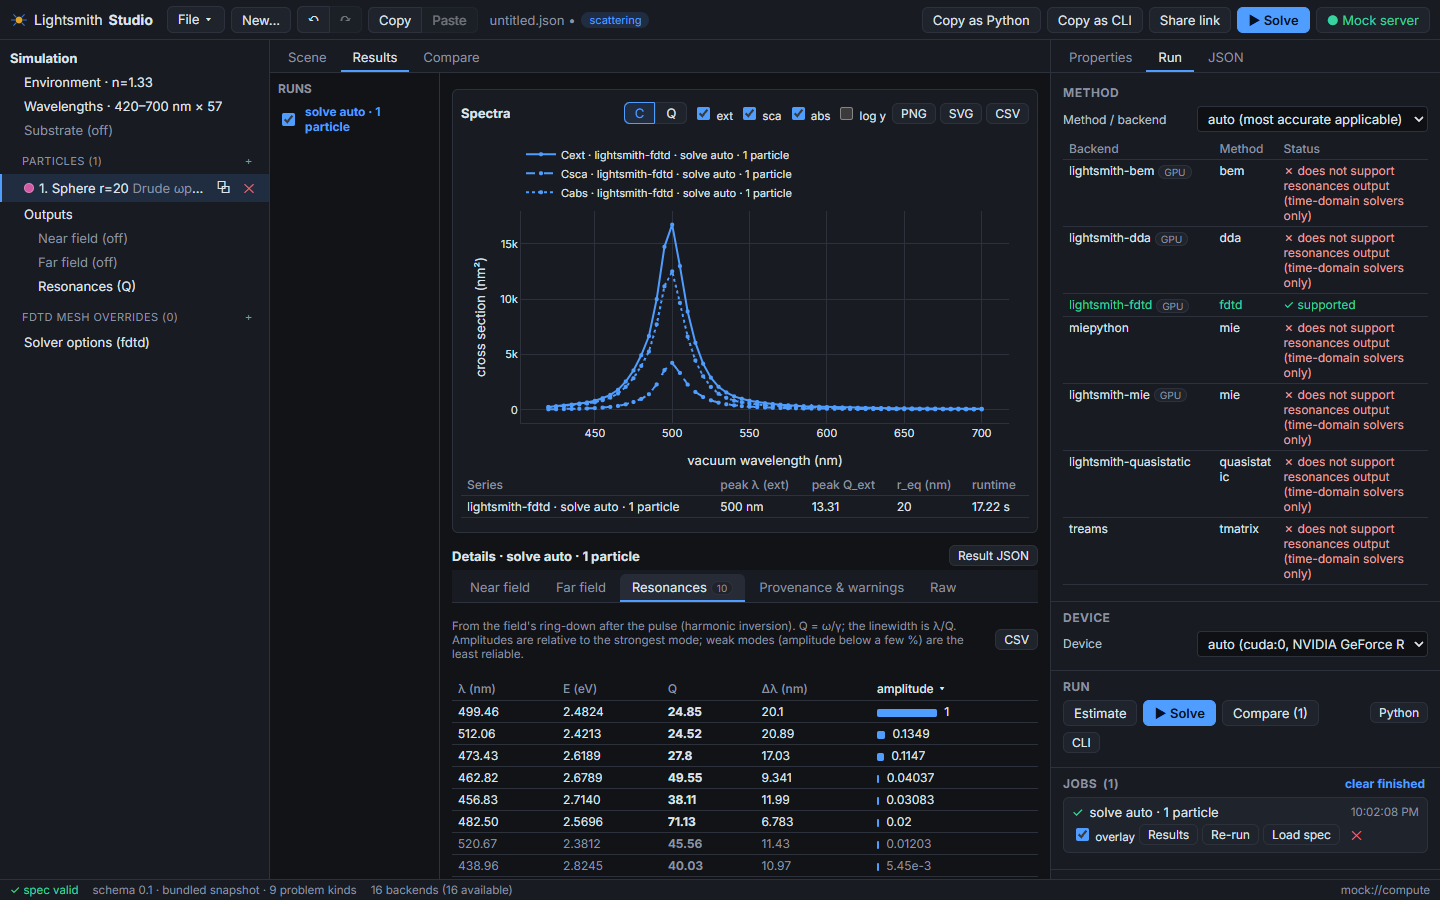
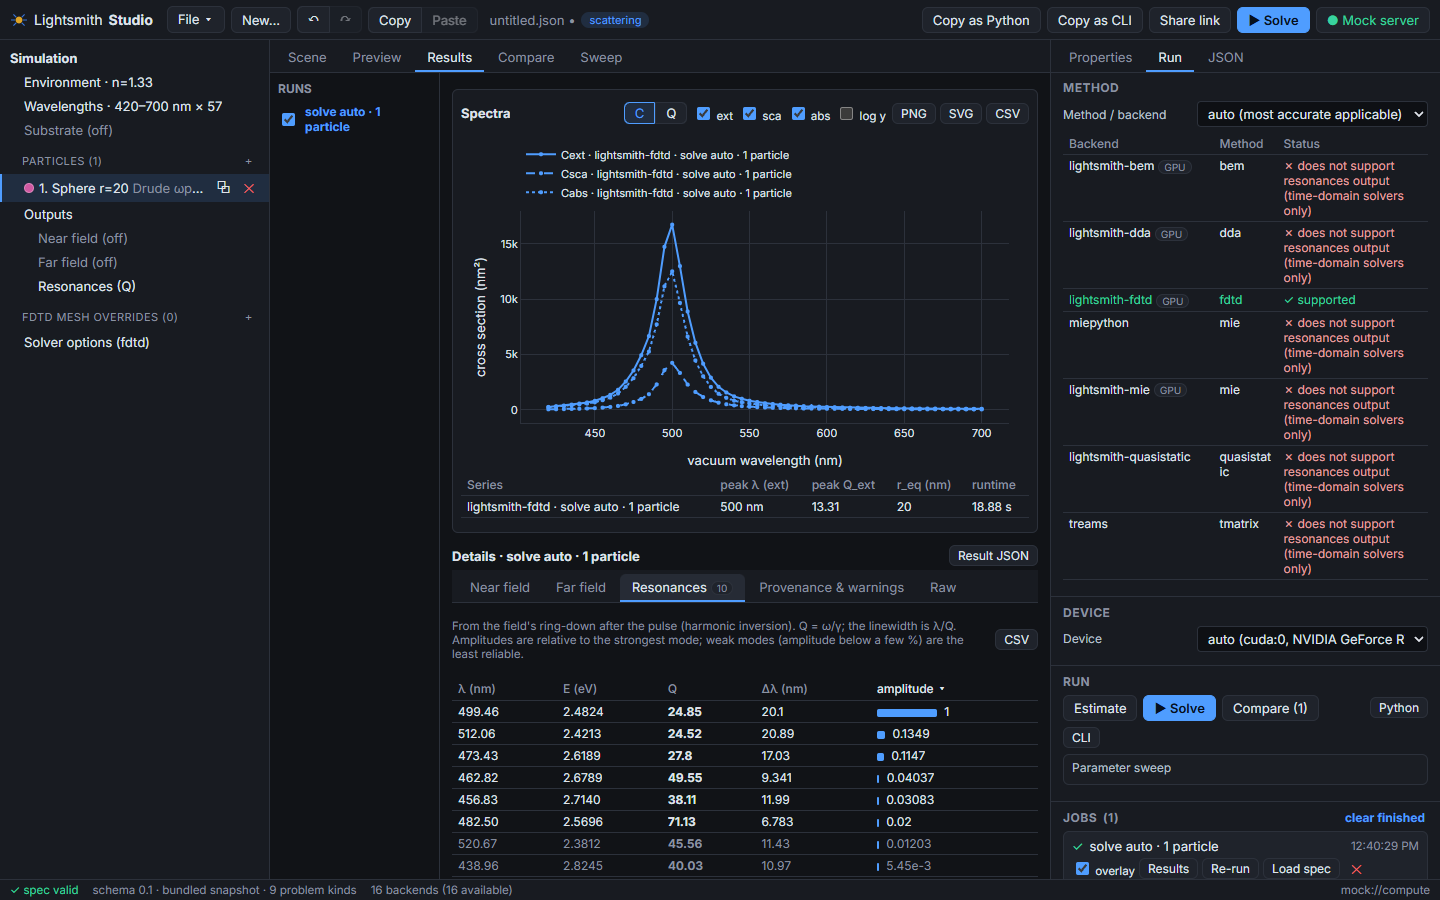
Document every solver's preview, compare and sweeps; generalise the layout proposal
README: the five center tabs, an "Every solver: preview, compare,
sweep" section with a per-backend preview table and screenshots, the
FDTD device template and solver chips, and the new tests.

API_ASSUMPTIONS.md: "Proposed: solver layouts" replaces the FDTD-only
proposal: one optional layout() per backend (ls.layout, lightsmith
layout, POST /v1/layout, MCP get_layout) with a common envelope and a
payload per layout_kind, each mapped to the library function that
computes it today; plus how Studio computes comparisons and runs
sweeps without a library call.

Screenshots from the e2e runs.

diff --git a/API_ASSUMPTIONS.md b/API_ASSUMPTIONS.md
@@ -37,8 +37,8 @@ or runtime `config.js` (Docker `STUDIO_*`).
 | `GET /v1/backends` | — | `name`, `method`, `problem_kinds`, `gpu`, `available`, `unavailable_reason`, `license` and `citation` feed the method list and the support table. `options_schema` generates the per-method options forms. While the server sends `null`, Studio uses the bundled snapshot's schema for the same backend name. | verified |
 | `POST /v1/supports` | `{simulation}` | `[{name, method, available, unavailable_reason, supported, reason}]`. On 404 or 405 (older servers) Studio falls back to one `/v1/estimate` per backend, cached per spec. | contract (fallback verified) |
 | `GET /v1/doctor` | — | Device menu and settings. | verified |
-| `POST /v1/estimate` | `{simulation, method, device}` | The whole dict, with labels for known keys. Runtime comes from `estimated_runtime_s`, else `seconds_estimate`, else a labelled heuristic. For FDTD scattering, `symmetry` (`mirrors`, `planes_nm`, `reduction`, `skipped`) and `graded_grid` are also the fallback for the 3D mirror planes when the server has no `/v1/layout`. | verified |
-| `POST /v1/layout` | `{simulation, method: "fdtd"}` | The FDTD layout for the 3D view and the mesh preview; see "Proposed: FDTD layout" below. On 404 or 405 Studio falls back to the dev server's library bridge (development only), then to `/v1/estimate`. | **proposed** |
+| `POST /v1/estimate` | `{simulation, method, device}` | The whole dict, with labels for known keys. Runtime comes from `estimated_runtime_s`, else `seconds_estimate`, else a labelled heuristic. When the server has no `/v1/layout`, the estimate's figures fill the Preview tab, and for FDTD scattering its `symmetry` (`mirrors`, `planes_nm`, `reduction`, `skipped`) gives the 3D mirror planes. | verified |
+| `POST /v1/layout` | `{simulation, method}` | What the backend will discretise (any backend), for the Preview tab, the FDTD objects in the 3D view and the mesh slice; see "Proposed: solver layouts" below. On 404 or 405 Studio falls back to the dev server's library bridge (development only), then to `/v1/estimate`. | **proposed** |
 | `POST /v1/jobs` → 202 | `{simulation, kind: "solve"\|"compare", method, methods, reference, device, label}` | `job_id` (or `id`) and `status`. A 422 at submit is shown as a toast. Optimization problems are submitted as `solve`, which the API treats like `optimize`. | verified (scattering) |
 | `GET /v1/jobs/{id}` | — | `status`, `progress`, `stage`, `message`, `error`, `result`. When `result` is null on success, Studio fetches `result_url`. | verified |
 | `DELETE /v1/jobs/{id}` | — | Cancel. Falls back to `POST …/cancel`. | contract |
@@ -60,74 +60,100 @@ servers:
 `cross_sections` results may also carry `resonances[]` (`wavelength_nm`, `energy_ev`, `q`, `amplitude`), from
 time-domain solvers when `outputs.resonances` is set; Studio shows them as a Q table.
 
-`compare` returns `{reference, results: {name: <any kind>}, relative_difference}`. For
-non-scattering kinds Studio overlays the per-method results in the kind's viewer.
+`compare` returns `{reference, results: {name: <any kind>}, relative_difference}`. Studio overlays the
+per-method results in the kind's viewer and differences them in the Compare tab (see "Studio-side: comparisons
+and sweeps").
 
-## Proposed: FDTD layout (library and compute API)
+## Proposed: solver layouts (library and compute API)
 
-**The gap.** Studio draws the FDTD simulation objects (TFSF box, flux monitors, CPML, auto-refined regions,
-mirror planes) and previews the Yee grid on a slice. It must not compute them itself: they depend on the
-library's sizing rules (padding, gaps, CPML cells, `grid: "auto"` refinement, grading, symmetry detection), and
-a TypeScript copy would drift from the solver. Today the library exposes none of this:
+**The gap.** For every backend, Studio shows what the solver will discretise before the run: the FDTD Yee grid,
+boxes and CPML; the DDA dipole lattice; the BEM surface mesh; the Mie and T-matrix multipole orders; the RCWA
+harmonics and layers; the FDE and FDFD grids; the EME and BPM cells; the PWE k-path and plane waves; the inverse
+design grid and design regions. It must not compute any of these itself: they depend on each backend's sizing
+rules, and a TypeScript copy would drift from the solvers. Today the library exposes only part of this:
 
-- `lightsmith estimate` / `POST /v1/estimate` (FDTD) returns `grid` (the *run's* shape, halved by symmetry),
-  `cells`, `spacing_nm`, `symmetry` (with `planes_nm`) and, on graded grids, `graded_grid` (min/max spacing,
-  `max_ratio`). That is enough for the mirror planes, not for node planes or boxes.
-- The node planes and boxes exist only inside the private planning code
-  (`lightsmith.backends._fdtd.scattering.plan` → `Layout`; `emission.plan`).
+- `lightsmith estimate` / `POST /v1/estimate` returns per-backend counts (dipoles, unknowns, `grid` shapes,
+  `n_max`, `harmonics`, `num_plane_waves`, FDTD `symmetry.planes_nm` and `graded_grid`…). These are figures
+  only: no positions, nodes, meshes, cells or port planes.
+- The geometry exists only inside each backend's private planning code (listed below), which `estimate` and
+  `solve` already call.
 
-**Proposal.** A small, read-only call next to `estimate`, which never runs the solver:
+**Proposal.** One optional, read-only `layout()` per backend, next to `estimate`, which never solves:
 
 ```python
-ls.layout(problem, method="fdtd") -> dict          # Backend.layout(sim), optional per backend
+ls.layout(problem, method="auto") -> dict          # Backend.layout(problem, device) -> dict, optional
 ```
 ```bash
-lightsmith layout spec.json [--method fdtd]        # JSON on stdout, errors as for estimate
+lightsmith layout spec.json [--method dda]         # JSON on stdout, errors as for estimate
 ```
 ```http
-POST /v1/layout  {"simulation": {...}, "method": "fdtd"}   ->  200 <the dict>   (lightsmith-cloud)
+POST /v1/layout  {"simulation": {...}, "method": "auto"}   ->  200 <the envelope>   (lightsmith-cloud)
 ```
-and an MCP tool `get_layout` with the same arguments. The dict, for scattering and emission problems (the
-whole grid, before any mirror halving; world coordinates in nm):
+and an MCP tool `get_layout` with the same arguments. `method` resolves as for `solve`.
+
+**Common envelope** (every backend):
 
 ```json
 {
-  "backend": "lightsmith-fdtd", "method": "fdtd", "problem_kind": "scattering",
-  "grid": {"kind": "uniform | graded", "base_spacing_nm": 8.0, "shape": [81, 81, 81], "cells": 531441,
-           "nodes_nm": [[...x], [...y], [...z]], "spacing_min_nm": [2, 2, 2], "spacing_max_nm": [8, 8, 8],
-           "max_ratio": 1.25},
-  "domain_nm": {"lo_nm": [...], "hi_nm": [...]},
-  "pml": {"cells": 10, "inner_lo_nm": [...], "inner_hi_nm": [...]},
-  "boxes": [{"name": "tfsf", "label": "...", "lo_nm": [...], "hi_nm": [...]},
-            {"name": "flux_total", ...}, {"name": "flux_scattered", ...}],
-  "regions": [{"source": "auto", "particle": 0, "lo_nm": [...], "hi_nm": [...], "spacing_nm": [2, 2, 2]},
-              {"source": "mesh_override", "index": 0, ...}],
-  "symmetry": {"mirrors": {"x": "antisymmetric (PEC)"}, "reduction": 2, "planes_nm": {"x": 0.0}, "skipped": "..."},
-  "run_cells": 142884,
+  "backend": "lightsmith-dda", "method": "dda", "problem_kind": "scattering",
+  "layout_kind": "dipole_lattice",
+  "summary": {"dipoles": 2176, "spacing (nm)": 4.98, "...": "..."},
+  "payload": {"...": "per layout_kind, below"},
+  "estimate": {"...": "the backend's estimate() for the same problem"},
   "warnings": [],
   "error": null
 }
 ```
 
-- Emission problems have one box, `flux_radiated` (the closed radiated-power box), and no mirror planes.
-- `error` carries the library's refusal (for example a graded grid with a Gaussian beam) while the geometry is
-  still returned, so the user sees what they built and why it will not run. Errors that leave no geometry are
-  raised as usual (422 over HTTP).
-- Sizes: `nodes_nm` is one float per node plane (a few hundred per axis), never per cell.
-- Periodic and layer-stack problems (a unit cell) could follow with the same shape; Studio does not ask for
-  them yet.
+- `summary` is an ordered map of the key figures, already labelled; a GUI or an agent can show it as is.
+- `error` carries the library's refusal (for example a graded FDTD grid with a Gaussian beam) while the
+  geometry is still returned where it can be computed. Errors that leave no geometry are raised as usual (422
+  over HTTP).
+- Backends without a layout return `layout_kind: "none"`, a `summary` from their estimate, and `payload.note`.
+- Sizes stay small: node planes per axis, never per cell; points and triangles are capped and subsampled, with
+  the true counts and the `stride` reported.
 
-**Reference implementation.** `scripts/fdtd_layout.py` in this repository builds exactly this dict from the
-library's private planning functions, so it reuses the solver's code path rather than copying it. It is what
-Studio uses until the library ships `layout`:
+**Payloads** (world coordinates in nm):
+
+| `layout_kind` | Backends | Payload | Library source (private today) |
+|---|---|---|---|
+| `yee_grid` | FDTD scattering, emission | `grid` (`kind`, `shape`, `cells`, `nodes_nm[3]`, `spacing_min/max_nm`, `max_ratio`), `domain_nm`, `pml` (`cells`, inner faces), `boxes[]` (tfsf, flux_total, flux_scattered; emission: flux_radiated), `regions[]` (auto, mesh_override), `symmetry` | `_fdtd.scattering` (`grid_regions`, `spacing`, `_bbox`), `_fdtd.setup` (`graded_layout`, `scattering_layout`), `_fdtd.symmetry.find`, `_fdtd.emission.plan` |
+| `device_grid` | FDTD and FDFD devices, inverse design | `nodes_nm[2 or 3]`, `pml_inner_lo/hi_nm`, `ports[]` (`name`, `axis`, `direction`, `source_nm`, FDTD `monitor_nm`, `window_nm`, `num_modes`), `two_d`; inverse: `design_regions[]` (`shape`, extent, `filter_radius_cells`) | `_fdtd.device.plan` (`grid`, `frames`); `FDFD.engine(p).grid` / `.ports`; `inverse.parametrization.region_map` on `FDFD.design_grid` |
+| `dipole_lattice` | DDA | `spacing_nm`, `dipoles_per_diameter`, `grid`, `n_dipoles`, `points_nm[]`, `material_slot[]`, `stride`, `discretization`, `extrapolate` | `dda._lattice(sim, npd, discretization)` |
+| `surface_mesh` | BEM | `mesh_size_nm`, `verts_nm[]`, `tris[]`, `tri_surface[]`, `n_triangles`, `n_edges`, `stride` | `NativeBEM._mesh_size`, `_bem.mesh.build_mesh` |
+| `multipoles` | Mie (per wavelength), T-matrix (per particle) | Mie: `wavelengths_nm`, `n_max[]`, `size_parameter[]`; T-matrix: `lmax[]`, `modes`, `lmax_global`, `positions_nm` | `mie_native.NativeMie._setup`, `_n_max`; `tmatrix_treams._Plan` |
+| `harmonics` | RCWA | `orders_max`, `harmonics[]` (m, n), `layers[]` (`thickness_nm`, `patterned`) | `rcwa._orders`, `_rcwa.fourier.harmonic_set` |
+| `cross_section_grid` | FDE | `x_nm`, `y_nm`, `dx_nm`, `dy_nm`, `pml_cells`, `symmetry`, `boundary`, `num_modes` | `fde._grid` |
+| `cells` | EME, BPM | `axis`, `lo_nm`, `hi_nm`, `cells[]` (`start_nm`, `stop_nm`; BPM: `steps`, `dz_nm`), `cross_section`; EME: `modes_per_cell`; BPM: `step_nm` | `NativeEME._setup` / `NativeBPM._setup`, `_eme.slice_device` |
+| `plane_waves` | PWE | `k_reduced[]`, `k_distance[]`, `k_labels`, per polarisation `solver`, `num_plane_waves`, `matrix_size`, FFT `grid`, dense `g_indices[]` | `pwe._cell`, `pwe.k_path`, `_pwe.engine.make_plan` |
+| `none` | TMM, quasistatic, circuits, miepython (order internal), FDTD periodic and layer stacks (not yet) | `note` | — |
+
+**Reference implementation.** `scripts/solver_layout.py` in this repository builds exactly this envelope from
+those private functions, so it reuses each solver's code path rather than copying it, and never solves. Studio
+uses it until the library ships `layout`:
 
 - the Vite dev server runs it for `POST /__library/v1/layout` (`vite.config.ts`, development only, needs `uv`
   and `../lightsmith`; off with `STUDIO_LIBRARY_BRIDGE=0`);
-- `scripts/make_fixtures.py` snapshots the layouts of the FDTD templates (`src/generated/fdtd_templates.json`),
-  which the in-browser mock serves for those exact specs.
+- `scripts/make_fixtures.py` snapshots the layouts of every example for every backend that runs it
+  (`src/generated/layouts.json`, and the FDTD templates in `fdtd_templates.json`), which the in-browser mock
+  serves for those exact specs, together with the estimate recorded alongside.
 
-Moving it into the library is a matter of putting `layout()` beside `NativeFDTD.estimate` and registering the
-CLI, MCP and HTTP routes; the private imports in the script then go away.
+Moving it into the library is a matter of a `layout()` classmethod per backend beside `estimate` (the bodies
+are the script's per-solver functions), `ls.layout` in `api.py`, and the CLI, MCP and HTTP routes; the private
+imports in the script then go away. If a backend renames its planning functions first, the script breaks and
+the GUI falls back to the estimate figures.
+
+## Studio-side: comparisons and sweeps
+
+- **Compare** uses `POST /v1/jobs` with `kind: "compare"` and `methods`, and also overlays any finished runs of
+  the same problem kind. Differences are computed in Studio from the results' own arrays (curves per result
+  kind: cross sections, R/T/A, n_eff, |S|², bands, decay rates, objective history), relative to a chosen
+  reference with the library's floor (10⁻³ of the reference's largest value). Runs on different x grids are
+  interpolated onto the reference's.
+- **Sweeps** have no library or server call: a sweep is N ordinary `solve` jobs, each a complete spec with one
+  number changed (a spec field, or `options[method][field]`, created if absent), validated against the schema
+  first. A server-side sweep job (one submission, shared set-up such as DDA interaction matrices or FDE
+  operators) would be cheaper; Studio would use it if offered, with the same per-value results.
 
 ## Materials (materials-db, `http://localhost:8100`)
 

diff --git a/README.md b/README.md
@@ -18,7 +18,9 @@ The product name, app name, deep-link scheme and the library's package/CLI names
 ## Problem kinds
 
 **New…** opens the project picker. The list of kinds comes from the live schema, so a kind added to
-the library appears automatically, with generated editors.
+the library appears automatically, with generated editors. Every kind has the same five center tabs:
+**Scene** (the editor below), **Preview** (what the chosen backend will discretise), **Results**, **Compare**
+(several backends or runs, with their differences) and **Sweep** (one parameter over a range).
 
 | Kind | Scene editor | Result viewer |
 |---|---|---|
@@ -26,7 +28,7 @@ the library appears automatically, with generated editors.
 | `layer_stack` | layer stack editor: add from presets, reorder, remove; superstrate and substrate; n at mid-band | R/T/A vs λ per angle and polarization, R/T/A vs angle map |
 | `periodic` | patterned-layer stack, plus a 2D unit-cell editor with neighbouring cells shown | R/T/A plus diffraction-order efficiencies |
 | `mode` | 2D cross-section editor: drag structures, simulation window | n_eff/n_g/loss/TE-fraction/A_eff table, n_eff(λ), field heatmaps (\|E\|², \|H\|², components) with outlines |
-| `device` | top view: structures (prism/box/ball footprints), ports with direction, domain | \|S\|² in dB or linear, unwrapped phase, \|S\| matrix vs λ, power-balance check |
+| `device` | top view: structures (prism/box/ball footprints), ports with direction, domain; solver chips (EME, BPM, FDFD, FDTD) and te/tm for 2D devices | \|S\|² in dB or linear, unwrapped phase, \|S\| matrix vs λ, power-balance check |
 | `bands` | unit-cell editor with lattice vectors and tiled neighbours; 3D crystals shown in top view | band diagram with k labels, gaps shaded per polarization and complete gaps, gap table (a/λ and nm) |
 | `circuit` | netlist graph: instances, connections, external ports | S-parameters, as for devices |
 | `optimization` | the device top view plus hatched design regions | objective and binarization history, S-parameters of the final design |
@@ -37,7 +39,7 @@ the library appears automatically, with generated editors.
   eight templates (sphere, dimer, core–shell, rod, spheroid, trimer, Si sphere, sphere on glass) and four
   FDTD set-ups that the library has laid out and solved: a dimer gap with a mesh override and two mirror
   planes, a graded-grid plasmon ring-down with its resonances, a focused Gaussian beam, and a sphere on glass
-  at 45°.
+  at 45°. Devices also start from *FDTD: 2D waveguide, TE ports*, solved by the FDTD device solver.
 - **Editing in the scene.** Clicking an object in the scene selects it in the object tree. Its
   Properties panel shows the generated form, with the material picker for every material field.
   Drags are undoable spec ops.
@@ -49,9 +51,59 @@ the library appears automatically, with generated editors.
   - Device choice and per-backend option forms come from each backend's `options_schema`.
   - Estimate gives memory and runtime before you run.
   - Solve and Compare send jobs with live progress over WebSocket; you can cancel and re-run.
+  - Parameter sweep (in the Run panel) submits one solve per value; see "Every solver" below.
 - **Files and sharing.** Open and save spec JSON (recent files, drag and drop). Deep links take the
   form `?spec=`, `?spec_url=` and `lightsmith-studio://open?spec=`. "Copy as Python / CLI / curl /
   MCP" is available, and `window.studio` scripting with a live JSON panel.
+
+## Every solver: preview, compare, sweep
+
+Studio is the GUI for the whole suite: Mie, T-matrix, DDA, BEM, quasistatic, FDTD, RCWA, TMM, FDE, FDFD, EME,
+BPM, PWE, circuits and inverse design. The Run panel lists every backend for the problem kind with the
+library's verdict, and the scene editors of the 2D kinds have chips to pick one.
+
+**Preview** shows what the chosen backend will discretise, before the run, as the library plans it:
+
+| Backend | Preview |
+|---|---|
+| Mie (`lightsmith-mie`) | multipole order n_max per wavelength, with the size parameter |
+| T-matrix (`treams`) | lmax per particle (more for close neighbours), modes |
+| DDA | the occupied dipole lattice in 3D, coloured by material; spacing, dipoles per diameter |
+| BEM | the surface mesh in 3D; triangles, edges, unknowns |
+| FDTD | scattering and emission: cell widths per axis (the Scene tab draws the boxes, CPML, mirror planes and mesh slice); devices: the grid with PML, port source and monitor planes, te/tm |
+| RCWA | the Fourier orders (m, n) and the layers, each uniform in z |
+| FDE | the cross-section grid, PML, boundary, structure outlines |
+| FDFD | the device grid, PML and ports |
+| EME | the cells along the propagation axis and the modes per cell |
+| BPM | the cells and the propagation steps per cell |
+| PWE | the k-path in reduced coordinates and the plane-wave set per polarisation |
+| inverse design | the FDFD grid, the design regions and their filter radius in cells |
+| TMM, quasistatic, circuits | nothing to discretise: the estimate's figures |
+
+| | |
+|---|---|
+| ![DDA dipole lattice](docs/screenshots/preview-dda.png) | ![EME cells](docs/screenshots/preview-eme.png) |
+| ![RCWA harmonics](docs/screenshots/preview-rcwa.png) | ![PWE k-path and plane waves](docs/screenshots/preview-pwe.png) |
+| ![FDTD device grid and ports](docs/screenshots/preview-fdtd-device.png) | ![Inverse design grid](docs/screenshots/preview-inverse.png) |
+
+The layout comes from the server's proposed `POST /v1/layout`, else (development) the dev server's library
+bridge running `scripts/solver_layout.py`, else the estimate's figures; the mock serves the library's layouts
+of the shipped examples. See API_ASSUMPTIONS.md, "Proposed: solver layouts".
+
+**Compare** works for every problem kind. Tick backends under *Compare* in the Run panel (or tick finished runs
+in Results) and the Compare tab overlays one quantity across them (cross sections, R/T/A per polarisation and
+angle, n_eff and n_g per mode, \|S\|² per port pair, bands, decay rates, the objective history), plots the
+relative or absolute difference from a reference you choose, and tabulates max and RMS differences with the
+worst quantity per run. Runs on different wavelength grids are interpolated onto the reference's.
+
+![Compare across backends](docs/screenshots/compare-backends.png)
+
+**Sweep** runs one solve per value of one number: any number in the spec (a radius, a position, the medium
+index, a layer thickness…) or a numeric option of the chosen method (`options.dda.dipoles_per_diameter`,
+`options.fdtd.spacing_nm`…). The Sweep tab reduces each run's curve to a number (peak, its position, minimum,
+mean, value at x) and plots it against the parameter, beside the overlaid curves.
+
+![Sweep of a sphere radius](docs/screenshots/sweep.png)
 
 ## FDTD set-up
 
@@ -85,7 +137,7 @@ CAD tool does, but without computing any of them itself.
 Where the layout comes from (`src/state/layout.ts`):
 1. the compute server's `POST /v1/layout`, which Studio proposes to the library (see API_ASSUMPTIONS.md,
    "Proposed: FDTD layout");
-2. in development, the Vite dev server's **library bridge**: it runs `scripts/fdtd_layout.py` against
+2. in development, the Vite dev server's **library bridge**: it runs `scripts/solver_layout.py` against
    `../lightsmith` (needs `uv`; off with `STUDIO_LIBRARY_BRIDGE=0`). That script is the reference
    implementation of the proposal, built on the library's own planning code;
 3. the server's `POST /v1/estimate`, which gives the mirror planes only;
@@ -250,14 +302,15 @@ Embedding pages can `postMessage({studio: "getSpec"|"setSpec"|"apply"|"validate"
   schemas, and bundled n/k data. `uv run --project ../lightsmith python scripts/make_fixtures.py`
   re-solves the per-kind examples, and lays out and solves the FDTD templates
   (`src/generated/fdtd_templates.json`, `fixtures/fdtd/`; on the GPU when there is one). It is slow: RCWA
-  takes minutes. `make_fixtures.py fdtd emission` redoes only those.
+  takes minutes. `make_fixtures.py fdtd layouts` redoes only the FDTD templates and the layout snapshots of
+  every example for every backend (`src/generated/layouts.json`), which take seconds.
 
 ## Tests
 
 ```bash
-npm test                                   # Vitest: logic, parity, kinds, FDTD snapshots, auth, config
-npm run test:e2e                           # Playwright, against the mock: scattering flows, FDTD set-up, every problem kind
-STUDIO_LIBRARY_BRIDGE=1 npx playwright test fdtd-library   # FDTD layouts from ../lightsmith through the dev-server bridge
+npm test                                   # Vitest: logic, parity, kinds, FDTD and solver-layout snapshots, curves, sweeps, auth, config
+npm run test:e2e                           # Playwright, against the mock: scattering flows, FDTD set-up, every solver's preview, compare, sweeps, every problem kind
+STUDIO_LIBRARY_BRIDGE=1 npx playwright test fdtd-library   # layouts from ../lightsmith through the dev-server bridge
 STUDIO_COMPUTE_URL=http://localhost:8200 npx playwright test real-server   # against a live compute server
 ```
 
@@ -268,12 +321,12 @@ Screenshots from the e2e runs are in `docs/screenshots/`.
 ```
 src/config/      brand.ts (names), runtime.ts (deployment config)
 src/schema/      schema helpers, generated form, validation
-src/state/       spec store (undo/redo, ops), connection, jobs, kinds, templates, actions
+src/state/       spec store (undo/redo, ops), connection, jobs, kinds, templates, actions, layouts (solver previews), sweeps
 src/api/         compute + materials clients, in-browser mock server
-src/components/  viewport (3D), fdtd/ (FDTD objects in 3D), kinds/ (2D/stack/netlist scenes), viewers/ (result kinds), panels, dialogs
-src/lib/         auth (OIDC / Community), codegen, deep links, files, CSV, scripting
-src/generated/   library snapshot, solved examples, FDTD templates with their layouts
-scripts/         sync_library.py, make_fixtures.py, fdtd_layout.py (the library's FDTD layout of a spec)
+src/components/  viewport (3D), fdtd/ (FDTD objects in 3D), kinds/ (2D/stack/netlist scenes), viewers/ (result kinds), Preview, CompareView, Sweep, panels, dialogs
+src/lib/         auth (OIDC / Community), codegen, deep links, files, CSV, scripting, curves (every result kind as curves)
+src/generated/   library snapshot, solved examples, FDTD templates, every example's solver layouts
+scripts/         sync_library.py, make_fixtures.py, solver_layout.py (what each backend will discretise for a spec)
 docker/          nginx template, runtime-config entrypoint
 src-tauri/       desktop shell
 e2e/             Playwright flows
